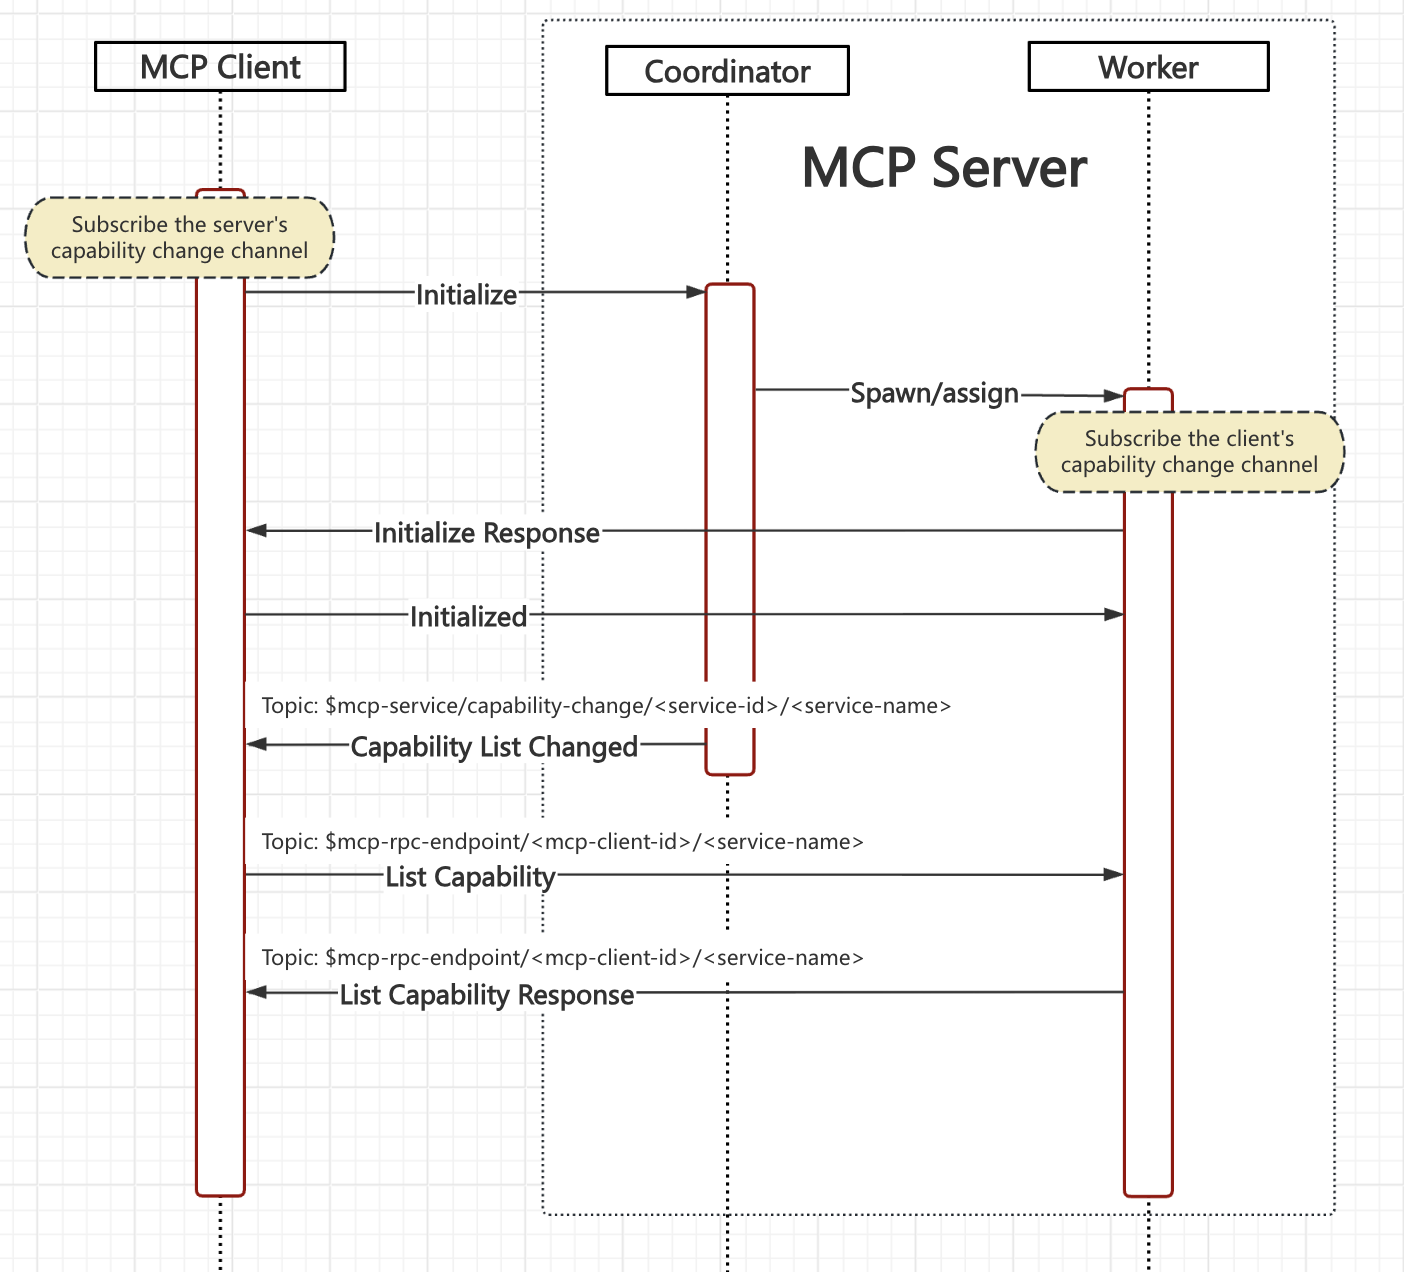
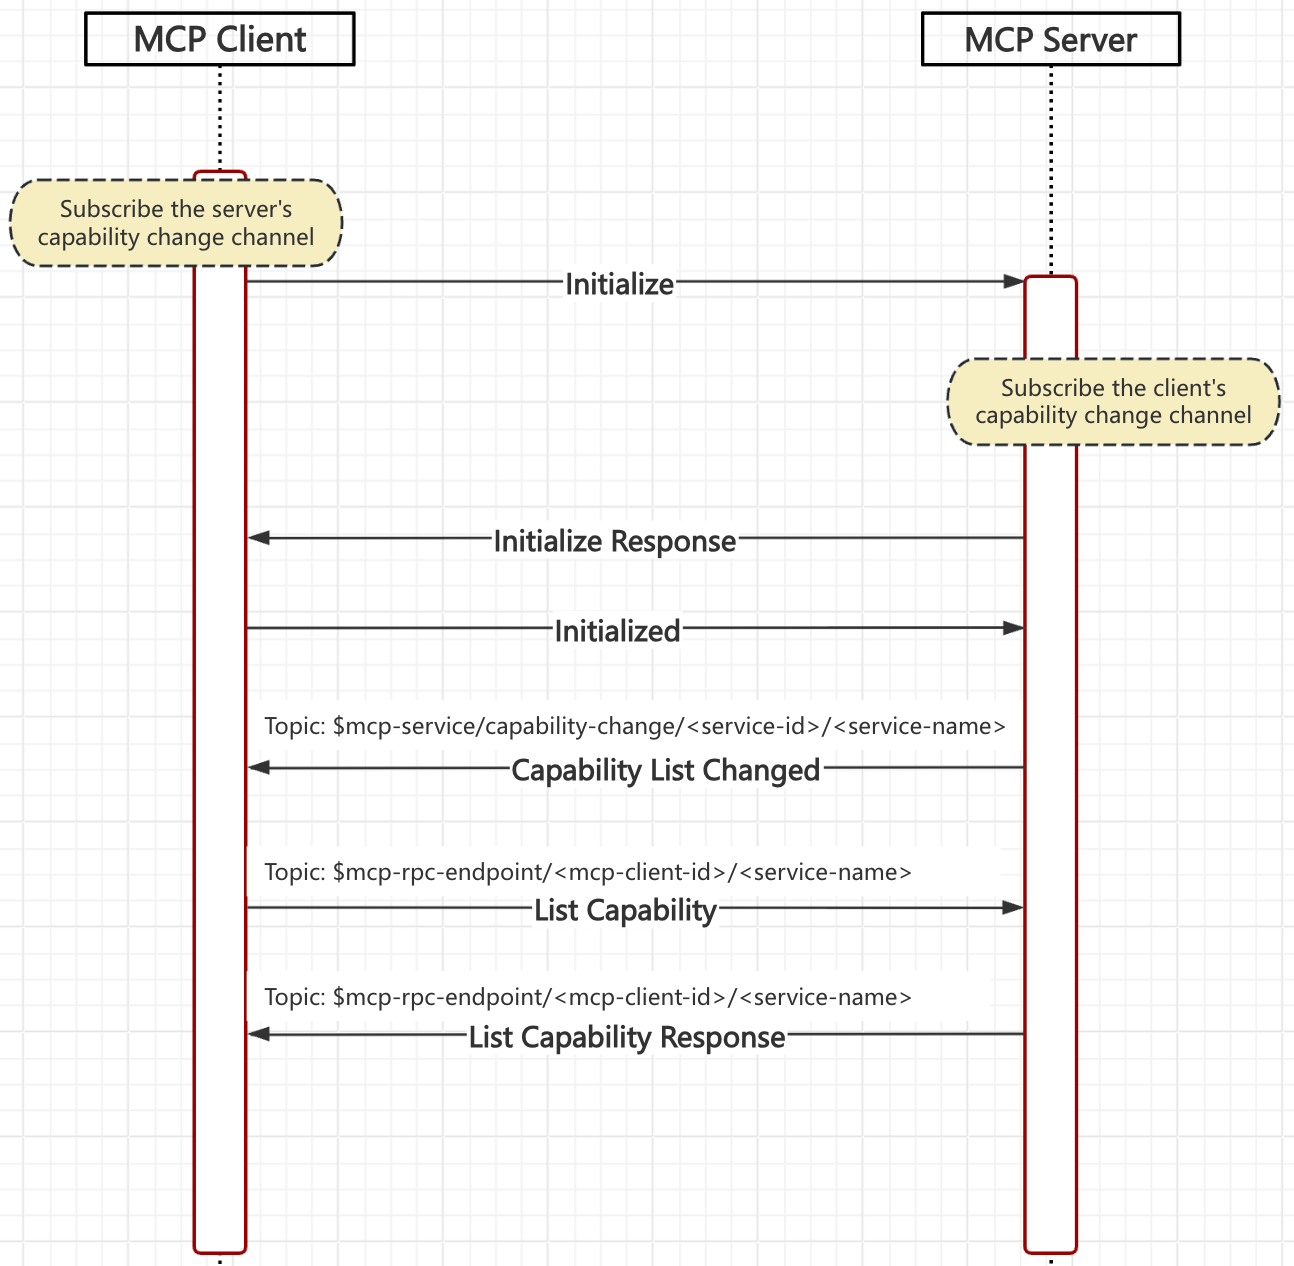
remove the coordinator and worker role from MCP server

diff --git a/content/docs/specification/draft/basic/transports.md b/content/docs/specification/draft/basic/transports.md
@@ -36,47 +36,43 @@ MCP uses JSON-RPC to encode messages. JSON-RPC messages **MUST** be UTF-8 encode
 
 - **resource-id**: The resource ID identifies a resource that the server is managing. Any non-negative integer. It must be unique within the service.
 
-- **mcp-client-id**: The MQTT Client ID of the client. Any string except `/`. It must be globally unique and will be included in the topic.
+- **mcp-client-id**: The MQTT Client ID of the client. Any string except `/`. It must be globally unique and will be included in the topic. Each time an initialization request is made, a different client-id must be used. It is recommended to use a UUID.
 
-## Coordinators and Workers of MCP Server
+## Architecture
 
 In the **MQTT** transport, the server operates as an independent process (or a pool of processes for load balancing purpose) that can handle multiple client connections.
 
-The server **MUST** establish 2 kinds of MQTT connections:
-
-1. **Coordinator Connection**: Each server process needs to maintain an MQTT connection as a Coordinator to receive client initialization requests, create and manage worker connections, and send notifications specific to this process, such as capability change notifications, when the server's capabilities change.
-2. **Worker Connection**: Each server process needs to maintain one or more MQTT connections as workers to receive client RPC message requests, send message responses, and send notifications specific to this worker, such as worker disconnection notifications.
+To achieve server-side load balancing and linear scalability, each MCP server instance shares a subscription to the control channel. The client establishes an RPC channel with one of the MCP server instances through the control channel. For details on the corresponding topic name of the channel, refer to the [message channels]({{< ref "/docs/specification/draft/basic/transports#message-channels-topics" >}}) section.
 
 ```mermaid
 graph LR
-    subgraph "Control Channel"
-        CH["$mcp-service/service-name"]
+
+    BRK[MQTT Broker]
+
+    BRK <-- "$share/any/$mcp-service/service-name" --> S1
+    BRK <--  "$share/any/$mcp-service/service-name" --> S2
+    subgraph "MCP Server Instances"
+        S1[Server Instance 1]
+        S2[Server Instance 2]
     end
 
-    subgraph "Server Proc1 for service-name"
-        COOR1[Coordinator 1]
-        W1[Worker 1]
-        W2[Worker 2]
-        CH --> COOR1
-        COOR1 --> W1
-        COOR1 --> W2
-    end
+    C1[MCP Client1]
+    C2[MCP Client2]
+    C3[MCP Client3]
+    C4[MCP Client4]
 
-    subgraph "Server Proc2 for service-name"
-        COOR2[Coordinator 2]
-        W3[Worker 3]
-        W4[Worker 4]
-        CH --> COOR2
-        COOR2 --> W3
-        COOR2 --> W4
-    end
+    S1 <-- "$mcp-rpc-endpoint/mcp-client-id-1/service-name" --> C1
+    S1 <-- "$mcp-rpc-endpoint/mcp-client-id-2/service-name" --> C2
+    S2 <-- "$mcp-rpc-endpoint/mcp-client-id-3/service-name" --> C3
+    S2 <-- "$mcp-rpc-endpoint/mcp-client-id-4/service-name" --> C4
+
 ```
 
-This allows us to achieve high availability and linear scalability on the server side: each MCP Server can start multiple service processes, with each process's Coordinator sharing a subscription to the "control channel" and waiting for client initialization requests.  
+This allows us to achieve high availability and linear scalability on the server side, each MCP server can start multiple service processes:
 
-When scaling up, existing MCP Clients remain connected to the old service processes, while new MCP Clients have the opportunity to initiate initialization requests to the new service processes.  
+- When scaling up, existing MCP clients remain connected to the old service processes, while new MCP clients have the opportunity to initiate initialization requests to the new service processes.
 
-When scaling down, established RPC channels are interrupted, causing MCP Clients to re-initiate initialization requests to the MCP Server, thereby connecting to another service process.
+- When scaling down, established RPC channels are interrupted, causing MCP clients to re-initiate initialization requests to the MCP server, thereby connecting to another service process.
 
 # MQTT Requirements and Conventions
 
@@ -104,52 +100,48 @@ The QoS level for all messages **MUST** be 1.
 
 ## MQTT Client ID
 
-### Server Coordinator
+### MCP Server
 
 The Client ID of the Coordinator can be any string except `/`, referred to as `service-id`.
 
-### Server Worker
-
-The Client ID of the Worker is `<service-id>:<ID>`, where `<service-id>` is the Client ID of the Coordinator, and `<ID>` can be any string except `/`.
-
 ### MCP Client
 
-The Client ID of the MCP Client, referred to as `mcp-client-id`, can be any string except `/`.
+The Client ID of the MCP Client, referred to as `mcp-client-id`, can be any string except `/`, each time an initialization request is made, a different client-id must be used. It is recommended to use a UUID.
 
 ## MQTT Topics and Topic Filters
-
 ### Topic Filters that MCP Server Subscribes to
 
-| Subscriber         | Topic Filter                                         | Explanation |
-|-------------------|----------------------------------------------------|-------------|
-| Server Coordinator | `$share/any/$mcp-service/<service-name>`          | The control channel of the MCP server to receive control plane messages. We use shared subscription to force a message only goes to exactly one coordinator. |
-| Server Worker | `$mcp-client/capability-change/<mcp-client-id>`   | The client’s capability change channel to receive capability list changed notification of the clients. |
-| Server Worker      | `$mcp-rpc-endpoint/<mcp-client-id>/<service-name>` <br> - Set `No Local` option | The RPC channel to receive RPC requests, RPC responses, and notifications from a client. |
+| Topic Filter                                         | Explanation |
+|----------------------------------------------------|-------------|
+| `$share/any/$mcp-service/<service-name>`          | The control channel of the MCP server to receive control plane messages. We use shared subscription to force a message only goes to exactly one coordinator. |
+| `$mcp-client/capability-change/<mcp-client-id>`   | The client’s capability change channel to receive capability list changed notification of the clients. |
+| `$mcp-rpc-endpoint/<mcp-client-id>/<service-name>` <br> - Set **No Local** option | The RPC channel to receive RPC requests, RPC responses, and notifications from a client. |
 
 ### Topics that MCP Server Publishes to
 
-| Publisher          | Topic Name                                            | Messages |
-|-------------------|------------------------------------------------------|----------|
-| Server Coordinator | `$mcp-service/capability-change/<service-id>/<service-name>` | capability changed notification.|
-| Server Coordinator | `$mcp-service/presence/<service-id>/<service-name>` <br> - RETAIN Flag: true <br> - Also set as a will topic with empty payload to clear the retain message when offline | Presence messages for the MCP Server. <br> See [ServiceDiscovery](/docs/specification/draft/basic/lifecycle#service-discovery) for more details |
-| Server Coordinator | `$mcp-service/resource-update/<service-id>/<resource-id>` | Resource update notification.|
-| Server Worker      | `$mcp-rpc-endpoint/<mcp-client-id>/<service-name>` <br> - Set as a will topic with the payload to the `disconnected` notification | RPC requests, responses and notifications. |
+| Topic Name                                            | Messages |
+|------------------------------------------------------|----------|
+| `$mcp-service/capability-change/<service-id>/<service-name>` | capability changed notification.|
+| `$mcp-service/presence/<service-id>/<service-name>` <br> - **RETAIN** Flag: true <br> - Also set as a **Will Topic** with empty payload to clear the retain message when offline | Presence messages for the MCP Server. <br> See [ServiceDiscovery](/docs/specification/draft/basic/lifecycle#service-discovery) for more details |
+| `$mcp-service/resource-update/<service-id>/<resource-id>` | Resource update notification.|
+| `$mcp-rpc-endpoint/<mcp-client-id>/<service-name>` | RPC requests, responses and notifications. |
 
 ### Topics that MCP Client Subscribes to
-| Subscriber | Topic Filter                                         | Explanation |
-|------------|------------------------------------------------------|-------------|
-| Client     | `$mcp-service/capability-change/+/<service-name-filter>` | The capability change channel to receive capability list changed notification of the service. |
-| Client     | `$mcp-service/resource-update/+/<resource-id>` | The resource update channel to receive resource update notification of the service. |
-| Client     | `$mcp-service/presence/+/<service-name-filter>`      | The service presence channel to receive the presence message of the service. |
-| Client     | `$mcp-rpc-endpoint/<mcp-client-id>/<service-name-filter>` <br> - Set `No Local` option | The RPC channel to receive PRC requests, responses and notifications sent by the MCP server. |
+
+| Topic Filter                                         | Explanation |
+|------------------------------------------------------|-------------|
+| `$mcp-service/capability-change/+/<service-name-filter>` | The capability change channel to receive capability list changed notification of the service. |
+| `$mcp-service/resource-update/+/<resource-id>` | The resource update channel to receive resource update notification of the service. |
+| `$mcp-service/presence/+/<service-name-filter>`      | The service presence channel to receive the presence message of the service. |
+| `$mcp-rpc-endpoint/<mcp-client-id>/<service-name-filter>` <br> - Set **No Local** option | The RPC channel to receive PRC requests, responses and notifications sent by the MCP server. |
 
 ### Topics that MCP Client Publishes to
 
-| Publisher | Topic Name                                         | Messages |
-|-----------|---------------------------------------------------|----------|
-| Client    | `$mcp-service/<service-name>`                     | Send control plane messages like initialize. |
-| Client    | `$mcp-client/capability-change/<mcp-client-id>`   | Send client capability list changed notification |
-| Client    | `$mcp-rpc-endpoint/<mcp-client-id>/<service-name>` | The RPC channel to send RPC requests/responses to a specific server. |
+| Topic Name                                         | Messages |
+|---------------------------------------------------|----------|
+| `$mcp-service/<service-name>`  <br> - Set **User Property**, "mcp-client-id": "the MQTT Client ID of the MCP client"    | Send control plane messages like initialize. |
+| `$mcp-client/capability-change/<mcp-client-id>`   | Send client capability list changed notification |
+| `$mcp-rpc-endpoint/<mcp-client-id>/<service-name>` | The RPC channel to send RPC requests/responses to a specific server. |
 
 ## MQTT Authentication and Authorization
 
@@ -159,7 +151,7 @@ When subscribing and publishing messages, the MCP client and server **MUST** com
 
 ## MQTT Message Flow
 
-For each MCP Client, MCP Server Coordinator and MCP Server Worker:
+For each MCP Client and Server:
 
 ```mermaid
 sequenceDiagram

diff --git a/content/docs/specification/draft/basic/lifecycle.md b/content/docs/specification/draft/basic/lifecycle.md
@@ -47,7 +47,7 @@ sequenceDiagram
 
 After the MCP server starts, it registers its service with the MQTT broker. The presence channel (MQTT topic) for service discovery and registration is: `$mcp-service/presence/<service-id>/<service-name>`.
 
-Coordinator connections of the MCP server **MUST** publish a "service/online" notification to the service presence channel when they start, with the **RETAIN** flag set to `True`.
+The MCP server **MUST** publish a "service/online" notification to the service presence channel when they start, with the **RETAIN** flag set to `True`.
 
 The "service/online" notification **SHOULD** provide only limited information about the service to avoid excessive message size:
 
@@ -75,16 +75,14 @@ Although the client can subscribe to `$mcp-service/presence/+/#` to get all type
 
 ### Service Unregistration
 
-Before disconnecting, the coordinator needs to send an empty payload message to the `$mcp-service/presence/<service-id>/<service-name>` topic to clear the registration information.
+Before disconnecting, the server needs to send an empty payload message to the `$mcp-service/presence/<service-id>/<service-name>` topic to clear the registration information.
 
-When connecting to the MQTT broker, the coordinator must set `$mcp-service/presence/<service-id>/<service-name>` as the will topic, with an empty payload will message, to clear the registration information in case of an unexpected disconnection.
+When connecting to the MQTT broker, the server must set `$mcp-service/presence/<service-id>/<service-name>` as the will topic, with an empty payload will message, to clear the registration information in case of an unexpected disconnection.
 
 On the `$mcp-service/presence/<service-id>/<service-name>` topic:
 
 - When the client receives a `service/online` notification, it should record the `<service-id>` as one of the instances of that `<service-name>`.
 - When the client receives an empty payload message, it should clear the cached `<service-id>`. As long as any instance of that `<service-name>` is online, the client should consider the service to be online.
-
-After a server coordinator disconnects, the client **SHOULD NOT** reinitialize the connection as long as the server worker is still online.
 
 ![Service Discovery](assets/mcp-service-discovery.png)
 
@@ -97,20 +95,16 @@ During this phase, the client and server:
 - Exchange and negotiate capabilities
 - Share implementation details
 
-When a client initialize the connection, the server **MUST** assign a worker connection to the client. If the server has no available worker connections, the server **MAY** create a new worker connection or reject the client connection.
-
-If the coordinator does not support the requested protocol version, it **MUST** respond with an
+If the server does not support the requested protocol version, it **MUST** respond with an
 error indicating the supported version(s) on the RPC channel.
-
-If the coordinator accepts the initialization, it assigns a worker connection to the client and responds with its own capabilities and information, on the RPC channel. If no worker connection is available, the coordinator creates a new worker connection. If for some reason no worker connection can be used, the coordinator **MUST** respond with an error indicating the reason.
 
 The client **MUST** subscribe to the RPC channel (`$mcp-rpc-endpoint/<mcp-client-id>/<service-name>`) before sending the initialization request, with the **No Local** subscription option.
 
-The worker **MUST** subscribe to the RPC channel (`$mcp-rpc-endpoint/<mcp-client-id>/<service-name>`) before responding to the initialization request, with the **No Local** subscription option.
+The server **MUST** subscribe to the RPC channel (`$mcp-rpc-endpoint/<mcp-client-id>/<service-name>`) before responding to the initialization request, with the **No Local** subscription option.
 
 ![mcp-initialize](assets/mcp-initialize-msg-flow.png)
 
-The client **MUST** initiate this phase by sending an `initialize` request containing:
+The client **MUST** initiate this phase by sending an `initialize` request to the topic `$mcp-service/<service-name>` containing:
 
 - Protocol version supported
 - Client capabilities
@@ -137,7 +131,11 @@ The client **MUST** initiate this phase by sending an `initialize` request conta
 }
 ```
 
-The server **MUST** respond with its own capabilities and information:
+The `initialize` request **MUST** include an MQTT user property `mcp-client-id` to identify the client:
+
+- **mcp-client-id**: The client's MQTT client ID
+
+The server **MUST** respond with its own capabilities to the topic `$mcp-rpc-endpoint/<mcp-client-id>/<service-name>` and information:
 
 ```json
 {
@@ -228,7 +226,7 @@ Before the MCP server responds to the initialization request, it **MUST** first 
 
 If there are subsequent capability list updates:
 
-- The server (coordinator) will send a notification to: `$mcp-service/capability-change/<service-id>/<service-name>`
+- The server will send a notification to: `$mcp-service/capability-change/<service-id>/<service-name>`
 - The client will send a notification to: `$mcp-client/capability-change/<mcp-client-id>`
 
 The payload of the capability update notification depends on the specific capability that has changed. For example "notifications/tools/list_changed" for tools. After receiving a capability list change notification, the client or server needs to retrieve the updated capability list. See the specific capability documentation for details.
@@ -243,7 +241,7 @@ After the initialization is complete, if the server has resources, the client wi
 
 The topic for the client to subscribe to resource changes is: `$mcp-service/resource-update/<service-id>/<resource-id>`.
 
-When a resource changes, the server coordinator **SHOULD** send a notification to `$mcp-service/resource-update/<service-id>/<resource-id>`, where the `<resource-id>` is the ID of the resource that has changed.
+When a resource changes, the server **SHOULD** send a notification to `$mcp-service/resource-update/<service-id>/<resource-id>`, where the `<resource-id>` is the ID of the resource that has changed.
 
 See [resources subscriptions](/docs/specification/draft/server/resources/#subscriptions) for more details.
 
@@ -261,34 +259,23 @@ Both parties **SHOULD**:
 
 ## Shutdown
 
-### Server Worker Disconnect
+### Server Disconnect
 
-The server worker **MUST** connect with a will message to notify the client when it disconnects unexpectedly, the will topic is `$mcp-rpc-endpoint/<mcp-client-id>/<service-name>` and the payload is a "disconnected" notification.
+The server **MUST** connect with a will message to notify the client when it disconnects unexpectedly, the will topic is `$mcp-service/presence/<service-id>/<service-name>` and the payload is empty.
 
-Before a worker connection disconnects, the worker **MUST** send a "disconnected" notification to the topic `$mcp-rpc-endpoint/<mcp-client-id>/<service-name>`.
+Before a server disconnects, the server **MUST** send a empty message to the topic `$mcp-service/presence/<service-id>/<service-name>`.
 
-The message format for the server worker's "disconnected" notification is:
-
-```json
-{
-  "jsonrpc": "2.0",
-  "method": "notifications/disconnected"
-}
-```
-
-When the client receives the "disconnected" notification, it **MAY** send another initialization request to the coordinator connection to get a new worker connection.
+When the client receives the empty message on the channel, **MUST** disconnect and **MAY** send another initialization request using a different client-id.
 
 ### Client Disconnect
 
-The server worker **MUST** subscribe to the client's presence channel (`$mcp-client/presence/<mcp-client-id>`) before sending the initialization response.
+The server **MUST** subscribe to the client's presence channel (`$mcp-client/presence/<mcp-client-id>`) before sending the initialization response.
 
 The client **MUST** connect with a will message to notify the server when it disconnects unexpectedly, the will topic is `$mcp-client/presence/<mcp-client-id>` and the payload is a "disconnected" notification.
 
 Before the client disconnects, it **MUST** send a "disconnected" notification to the topic `$mcp-client/presence/<mcp-client-id>`.
 
-If a client want to disconnect from a specific server, it **MUST** send a "disconnected" notification to the topic `$mcp-rpc-endpoint/<mcp-client-id>/<service-name>`.
-
-When a client disconnects, the server worker **MUST** disconnect and release its resources.
+After the server receives the "disconnected" notification, it **MUST** unsubscribe the `$mcp-rpc-endpoint/<mcp-client-id>/<service-name>` topic.
 
 The message format for the client's "disconnected" notification is:
 
@@ -301,10 +288,10 @@ The message format for the client's "disconnected" notification is:
 
 ## Health Checks
 
-The client or the server worker **MAY** send `ping` requests to the server at any time to check the health of their counterpart.
+The client or the server **MAY** send `ping` requests to the server at any time to check the health of their counterpart.
 
-- If the server worker does not receive a `ping` response from the client within a reasonable time, it **MUST** send a "disconnected" notification to the topic `$mcp-rpc-endpoint/<mcp-client-id>/<service-name>` and disconnect itself.
-- If the client does not receive a `ping` response from the server worker within a reasonable time, it **MUST** send a "disconnected" notification to the topic `$mcp-rpc-endpoint/<mcp-client-id>/<service-name>`, after that it **MAY** send another initialization request to the coordinator connection to get a new worker connection.
+- If the client does not receive a `ping` response from the server within a reasonable time, it **MUST** send a "disconnected" notification to the topic `$mcp-client/presence/<mcp-client-id>` and disconnect itself.
+- If the server does not receive a `ping` response from the client within a reasonable time, it **MUST** send any other PRC requests to the client.
 
 For more information, see the [Ping]({{< ref "/docs/specification/draft/basic/utilities/ping" >}}).
 
@@ -339,7 +326,6 @@ Implementations **SHOULD** be prepared to handle these error cases:
 
 - Protocol version mismatch
 - Failure to negotiate required capabilities
-- Worker connection creation failure
 - Initialize request timeout
 - Shutdown timeout
 
